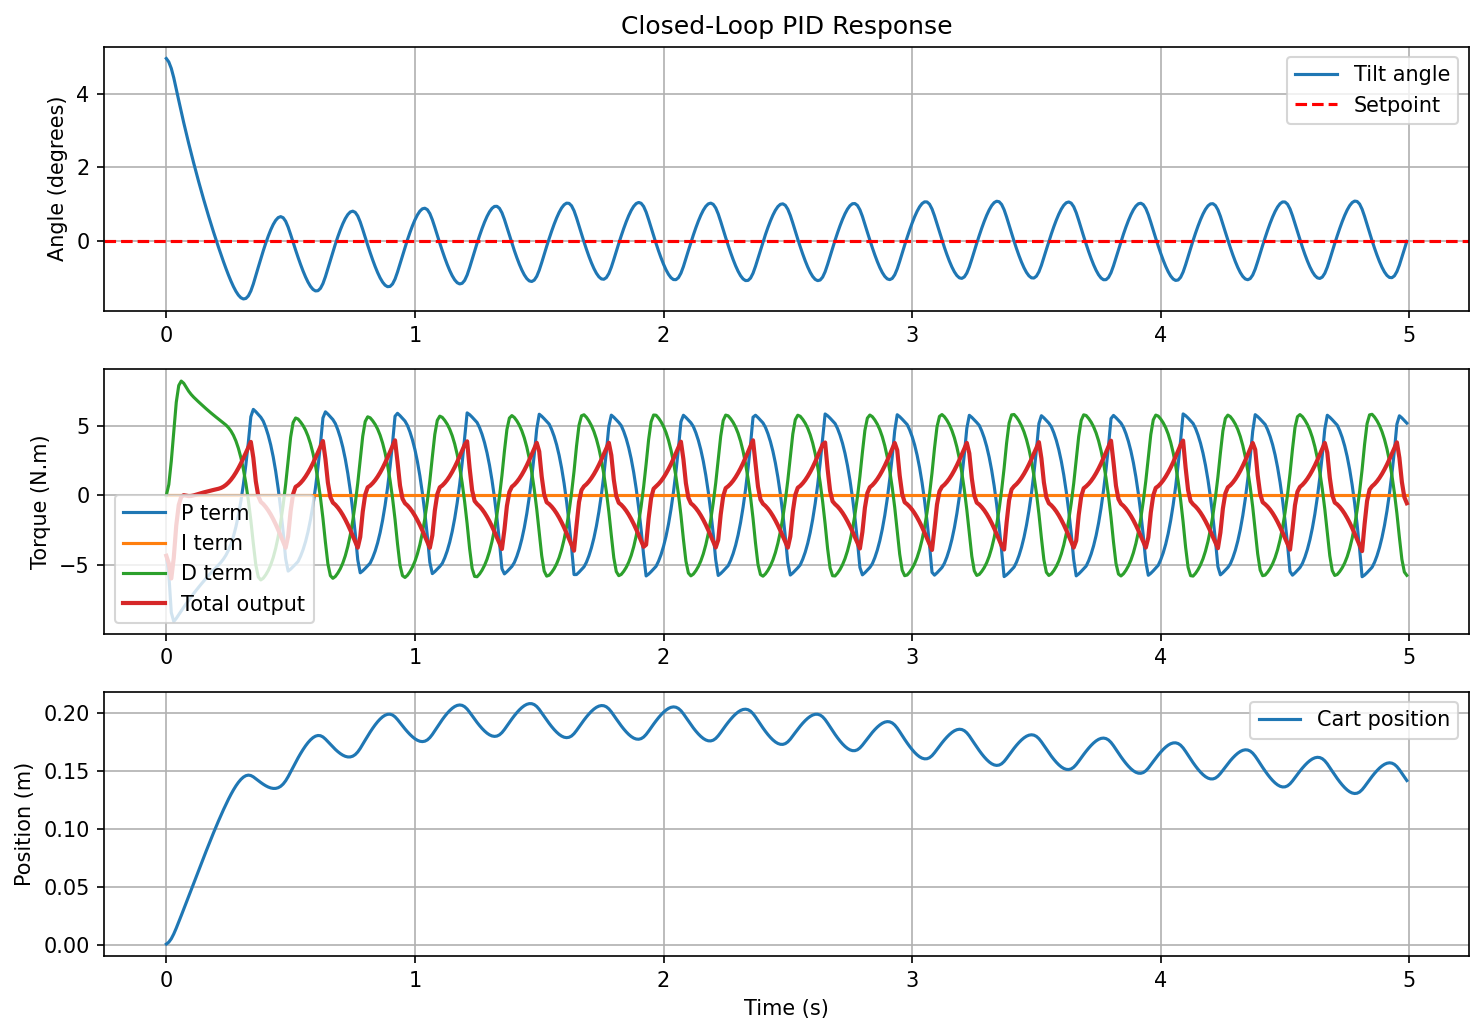
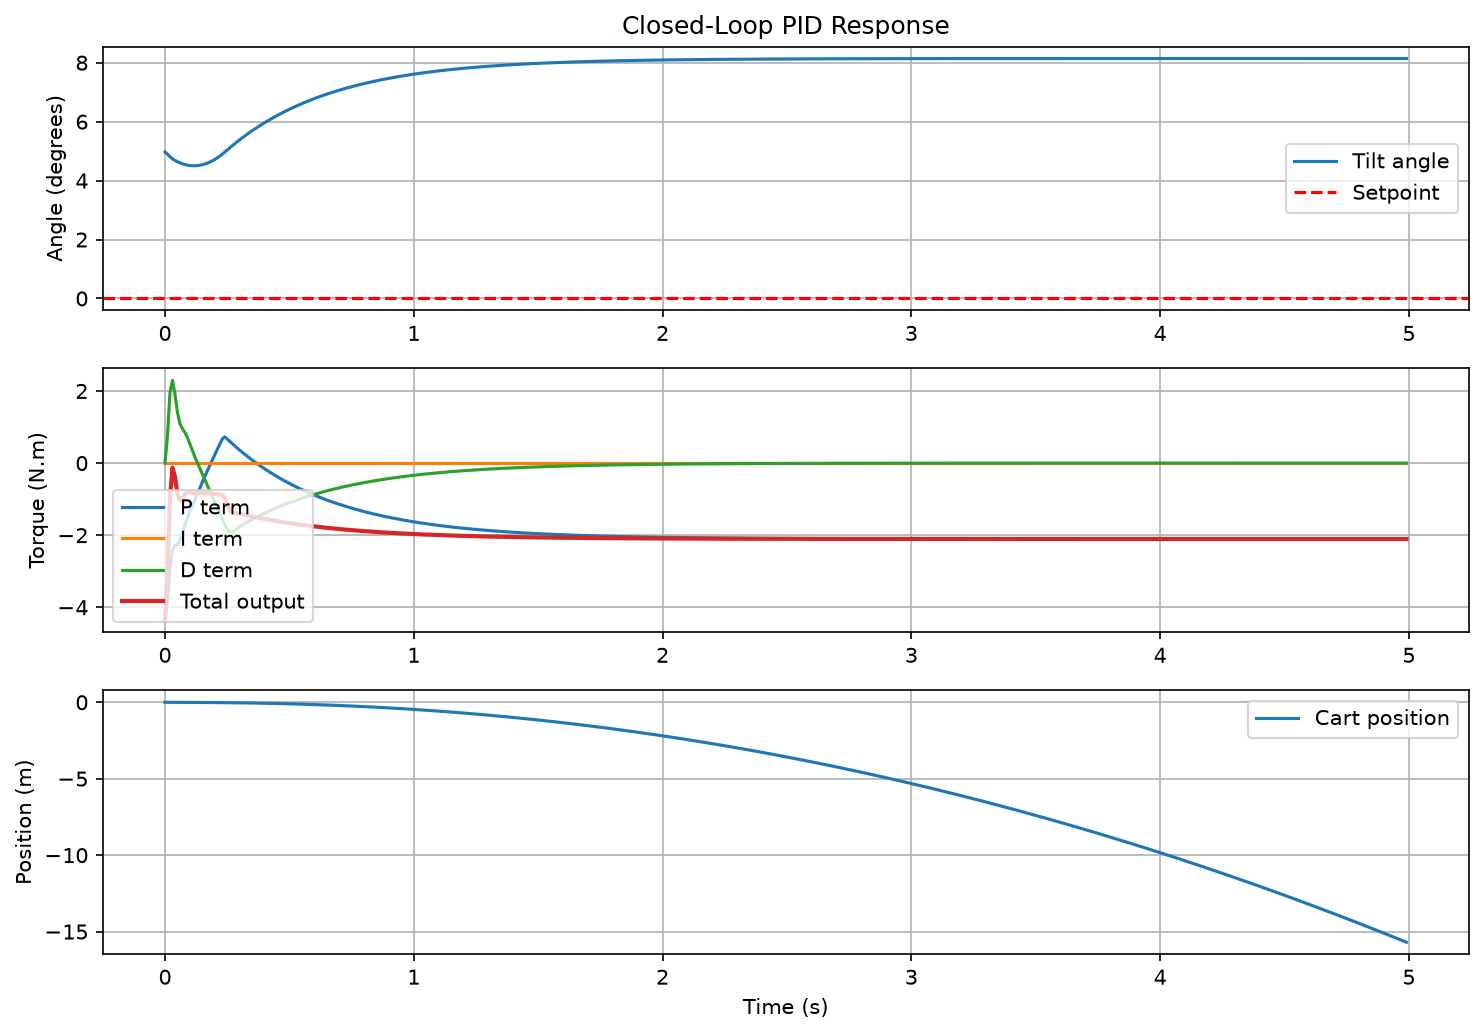
Fix cart-pole model errors and regenerate Stage 1 results
Gravity coefficients were transposed between the theta and x rows of the
linearised A matrix, giving an open loop unstable pole of 1.533 rad/s against
a true value of 6.220. Damping and centrifugal terms carried incorrect signs
in both the nonlinear model and the hand derivation.

Errors identified through a dimensional consistency check on the pendulum
equation and a physical sanity check on the open loop pole (a free cart must
fall faster than a fixed pivot, not slower). Verified against an independent
Lagrangian derivation.

Regenerated K = [57.33, 8.15, -11.01, -10.83]. State feedback now settles in
2.5s with 0.08m peak cart displacement. Cascaded PID fails to regulate
position rather than limit cycling.

diff --git a/simulation/plant.py b/simulation/plant.py
@@ -22,23 +22,25 @@ b = 0.05     # viscous damping at pivot (N.m.s/rad)
 def pendulum_dynamics(t, state, u):
     theta, theta_dot, x, x_dot = state
     denominator = (M + m) * (I + m * L**2) - (m * L * np.cos(theta))**2
-    x_ddot = ((I + m * L**2) * (u + m * L * theta_dot**2 * np.sin(theta)) + m * L * np.cos(theta) * (m * g * L * np.sin(theta) + b * theta_dot - u)) / denominator
-    theta_ddot = (m * L * np.cos(theta) * (u + m * L * theta_dot**2 * np.sin(theta)) + (M + m) * (m * g * L * np.sin(theta) + b * theta_dot )) / denominator
+    x_ddot = ((I + m * L**2) * (u - m * L * theta_dot**2 * np.sin(theta))
+              + m * L * np.cos(theta) * (m * g * L * np.sin(theta) - b * theta_dot)) / denominator
+    theta_ddot = (m * L * np.cos(theta) * (u - m * L * theta_dot**2 * np.sin(theta))
+                  + (M + m) * (m * g * L * np.sin(theta) - b * theta_dot)) / denominator
     return [theta_dot, theta_ddot, x_dot, x_ddot]
 
 def linearised_matrices():
     denom = (M + m) * (I + m * L**2) - (m * L)**2
 
     A = np.array([
-        [0,                          1,  0,  0],
-        [m**2 * g * L**2 / denom,   -b * (M + m) / denom,  0,  0],
-        [0,                          0,  0,  1],
-        [-m * g * L * (M + m) / denom,  b * m * L / denom,  0,  0]
+        [0,                        1,                 0,  0],
+        [(M + m) * m * g * L / denom,  -(M + m) * b / denom,  0,  0],
+        [0,                        0,                 0,  1],
+        [m**2 * g * L**2 / denom,     -m * L * b / denom,     0,  0]
     ])
 
     B = np.array([
         [0],
-        [-m * L / denom],
+        [m * L / denom],
         [0],
         [(I + m * L**2) / denom]
     ])

diff --git a/simulation/simulate.py b/simulation/simulate.py
@@ -18,7 +18,7 @@ t_eval  = np.arange(0, t_end, dt)
 # ─────────────────────────────────────────
 theta_0     = np.radians(5)   # X degree initial tilt
 theta_dot_0 = 0.0             # starting from rest
-x_0 = 0.0                     # cart starts at origin 
+x_0 = 0.0                     # cart starts at origin
 x_dot_0 = 0.0                 # cart starts from rest
 state_0     = [theta_0, theta_dot_0, x_0, x_dot_0]
 
@@ -59,7 +59,7 @@ x_dot     = x_dot_0
 
 for ti in t_eval:
 
-    
+
     # 1. Controller sees current angle and position, produces torque
     target_angle, terms_pos = position_pid.compute(x)
     angle_pid.setpoint = target_angle
@@ -120,5 +120,5 @@ ax3.legend()
 ax3.grid(True)
 
 plt.tight_layout()
-#plt.savefig('docs/results/stage1/cascaded_pid_before_tuning.png', dpi=150, bbox_inches='tight')
+plt.savefig('docs/results/stage1/cascaded_pid_before_tuning.png', dpi=150, bbox_inches='tight')
 plt.show()

diff --git a/simulation/simulate_state_feedback.py b/simulation/simulate_state_feedback.py
@@ -24,7 +24,7 @@ x_dot_0     = 0.0
 # Computed analytically using linearised_matrices()
 # Desired poles: [-3, -4, -5, -6]
 # ─────────────────────────────────────────
-K = np.array([35.7770091, 4.25784006, 2.26993285, 2.14053313])
+K = np.array([57.32868416, 8.14983868, -11.00917431, -10.83279559])
 
 # ─────────────────────────────────────────
 # Simulation loop
@@ -79,7 +79,7 @@ ax1.legend()
 ax1.grid(True)
 
 ax2.plot(log['t'], log['u'], label='Control output', color='red')
-ax2.set_ylabel('Torque (N.m)')
+ax2.set_ylabel('Control Force (N)')
 ax2.legend()
 ax2.grid(True)
 

diff --git a/analysis/stage1_pole_placement.py b/analysis/stage1_pole_placement.py
@@ -3,7 +3,7 @@ import os
 sys.path.insert(0, os.path.dirname(os.path.dirname(os.path.abspath(__file__))))
 
 import numpy as np
-from control import place
+from scipy.signal import place_poles
 from simulation.plant import linearised_matrices
 
 A, B = linearised_matrices()
@@ -14,7 +14,7 @@ print("Open loop poles:")
 print(eigenvalues)
 
 # Place closed loop poles where we want them
-desired_poles = [-3, -4, -5, -6]
-K = place(A, B, desired_poles)
+desired_poles = np.array([-3.0, -4.0, -5.0, -6.0])
+K = place_poles(A, B, desired_poles).gain_matrix
 print("\nGain matrix K:")
 print(K)

diff --git a/docs/results/stage1/README.md b/docs/results/stage1/README.md
@@ -1,7 +1,7 @@
 # Simulation Results - Stage 1
 
 
-**Note on parameters:** The physical parameters used throughout Stage 1 - cart and pendulum mass, pendulum length, and the ±5 N·m torque limit are nominal values chosen before hardware selection. They do not represent the measured properties of the robot being built. Open loop pole locations, gain values and settling times therefore describe the model rather than the physical system. Simulations will be re-run with measured parameters once characterisation is complete in Stage 2.
+**Note on parameters:** The physical parameters used throughout Stage 1 - cart and pendulum mass, pendulum length, and the torque limit are nominal values chosen before hardware selection. They do not represent the measured properties of the robot being built. Open loop pole locations, gain values and settling times therefore describe the model rather than the physical system. Simulations will be re-run with measured parameters once characterisation is complete in Stage 2.
 
 ## Angle Only PID
 
@@ -15,27 +15,26 @@ This behaviour is expected since the PID controller is only controlling the angl
 
 ## Cascaded PID - Before Analytical Tuning
 
-To control both angle and cart position simultaneously, a cascaded PID structure was implemented. An outer position PID computes a target angle setpoint, which is fed into an inner angle PID that produces the motor torque. Gains were tuned manually.
+To control both angle and cart position simultaneously, a cascaded PID structure was implemented. An outer position PID computes a target angle setpoint, which is fed into an inner angle PID that produces the control force. Gains were tuned manually.
 
 <img src="cascaded_pid_before_tuning.png" width="600">
 
-The system is not fully stable. The angle, starting at 5 degrees, oscillates between approximately -1 and +1 degrees indefinitely. The cart position similarly oscillates between 0.12m and 0.22m after an initial transient. It is almost impossible to fully stabilise this way because correcting angle affects position and correcting position affects angle. This is because the two PIDs were designed independently without accounting for the mathematical coupling between cart and pendulum dynamics.
+The cascaded PID fails to regulate cart position. The angle settles at a constant 8.1 degrees with a constant control output of -2.1 N, while the cart accelerates away continuously, reaching -15.7m within 5 seconds. The system finds a runaway equilibrium where a constant tilt and constant force balance while the cart accelerates without bound. It is almost impossible to fully stabilise this way because correcting angle affects position and correcting position affects angle. This is because the two PIDs were designed independently without accounting for the mathematical coupling between cart and pendulum dynamics.
 
-The torque trace shows another contributing factor. The P and D terms are saturated at ±5 N·m motor limit for most of the run. This saturation causes the loop to no longer be linear. Increasing the error produces no increase in torque so the effective gain falls and the phase margin is lost therefore the oscillation sustains as a limit cycle rather than decaying.
 
 ## Pole Placement Analysis
 
 Before implementing state feedback, the open loop poles of the system were computed using the linearised A matrix from `plant.py`:
 
-Open loop poles: [ 0, 0, 1.533, -3.200 ]
+Open loop poles: [ 0, 0, 6.22, -7.89]
 
-The positive pole (1.533) confirms the system is naturally unstable - the pendulum will fall without control. The two poles at zero correspond to the cart states, confirming the cart drifts indefinitely without correction.
+The positive pole (6.22) confirms the system is naturally unstable - the pendulum will fall without control. The two poles at zero correspond to the cart states, confirming the cart drifts indefinitely without correction.
 
-Desired closed loop pole locations were arrived at iteratively. Poles must lie in the left half plane for stability, and were placed clear of the open loop unstable pole at 1.533. Successive sets were tested in simulation and evaluated on settling time and peak torque: poles placed further left converged faster but demanded more torque. [-3, -4, -5, -6] was retained as the fastest response that stayed within the torque budget.
+Desired closed loop pole locations were arrived at iteratively. Poles must lie in the left half plane for stability, and were placed relative to the open loop unstable pole at 6.220. Successive sets were tested in simulation and evaluated on settling time and peak control force: poles placed further left converged faster but demanded more force. [-3, -4, -5, -6] was retained as the fastest response that stayed within a reasonable force budget.
 
 The pole placement algorithm computed the required state feedback gain matrix:
 
-K = [35.78, 4.26, 2.27, 2.14]
+K = [57.33, 8.15, -11.01, -10.83]
 
 Where each value corresponds to the gain on θ, θ̇, x, and ẋ respectively.
 
@@ -45,8 +44,8 @@ Using the gain matrix K computed from pole placement, state feedback control was
 
 u = -(K[0]·θ + K[1]·θ̇ + K[2]·x + K[3]·ẋ)
 
-All four states are used simultaneously to compute the torque, accounting for the coupling between cart and pendulum that the cascaded PID struggled with.
+All four states are used simultaneously to compute the control force, accounting for the coupling between cart and pendulum that the cascaded PID struggled with.
 
 <img src="state_feedback_pole_placement.png" width="600">
 
-Using state feedback control stabilised the system. The angle starts at 5 degrees and converges to the setpoint within approximately 4 seconds. The torque stays between within the ±5 N·m limit throughout, unlike the cascaded PID which saturated for most of its run. The torque also converges to zero, indicating that in ideal conditions no corrective force is needed to maintain the upright position. The cart position stabilises back at the origin after a peak displacement of 0.2m - a significant improvement over the cascaded PID approach.
+Using state feedback control stabilised the system. The angle starts at about 4.5 degrees, undershoots to -2.6 degrees, and converges to the setpoint within approximately 2.5 seconds. Peak control force is 5 N at the start of the correction, decaying to zero as the system settles. The cart moves a maximum of 0.08m from the origin before returning to it - a significant improvement over the cascaded PID, which failed to regulate position at all.

diff --git a/docs/derivations/README.md b/docs/derivations/README.md
@@ -1,31 +1,31 @@
-*Note: mathematical notation in this file uses Unicode characters 
-which may not render clearly in all editors. Refer to the 
-derivation photos for the clearest representation of the equations.*
+**Note:** this model has a single actuator. The applied horizontal force F is the only control input; there is no independent pivot torque. The motor's effect on the pendulum enters through the coupling term -mlẍcosθ rather than as a direct torque about the pivot. In the simulation code this input is named u.
 
 # Equations of Motion
 
 Derived from first principles using the Lagrangian method.
 
 ## Cart equation (horizontal motion)
-(M+m)ẍ - mlθ̈cosθ + mlθ̇²sinθ = F(t)
+(M+m)ẍ - mLθ̈cosθ + mLθ̇²sinθ = F(t)
 
 ## Pendulum equation (rotational motion)
-l²θ̈ - ẍcosθ - gsinθ - bθ̇ + u = 0
+(I+mL²)θ̈ - mLẍcosθ - mgLsinθ + bθ̇ = 0
 
 Where:
+- I = moment of inertia of the pendulum about its centre of mass (kg.m²)
 - M = cart/wheel mass (kg)
 - m = pendulum body mass (kg)
-- l = distance from pivot to centre of mass (m)
+- L = distance from pivot to centre of mass (m)
 - θ = angle from vertical (rad)
 - F(t) = applied motor force (N)
 - b = viscous damping coefficient (N.m.s/rad)
-- u = control torque input (N.m)
 
 These are the full nonlinear coupled equations.
-The simulation uses a simplified single-body approximation as a 
-first step. Full coupled equations are implemented in Stage 1.
+Stage 0 used a simplified single-body approximation as a first step.
+These full coupled equations are implemented in Stage 1.
 
-Full working derivation available on request.
+<img src="cart_pole_equations.jpg" width="300"> <img src="cart_pole_explicit_form.png" width="300">
+
+*Note: these images show the original hand derivation, which contained sign errors in the damping and centrifugal terms and incorrectly treated the control input as an independent pivot torque. The errors were identified through a dimensional consistency check and a physical sanity check on the open loop pole location, and propagated into the simulation code before correction. The equations above supersede the images.*
 
 ## Explicit form for simulation
 
@@ -37,9 +37,9 @@ A shared denominator δ appears naturally from the algebra:
 
 This represents the coupled inertia of the system. It varies with θ because the mechanical coupling between the cart and the pendulum changes with the angle.
 
-ẍ = [(I+mL²)(F + mLθ̇²sinθ) + mLcosθ(mgLsinθ + bθ̇ − u)] / δ
+ẍ = [(I+mL²)(F − mLθ̇²sinθ) + mLcosθ(mgLsinθ − bθ̇)] / δ
 
-θ̈ = [mLcosθ(F + mLθ̇²sinθ) + (M+m)(mgLsinθ + bθ̇ − u)] / δ
+θ̈ = [mLcosθ(F − mLθ̇²sinθ) + (M+m)(mgLsinθ − bθ̇)] / δ
 
 Where:
 - δ = coupled inertia denominator
